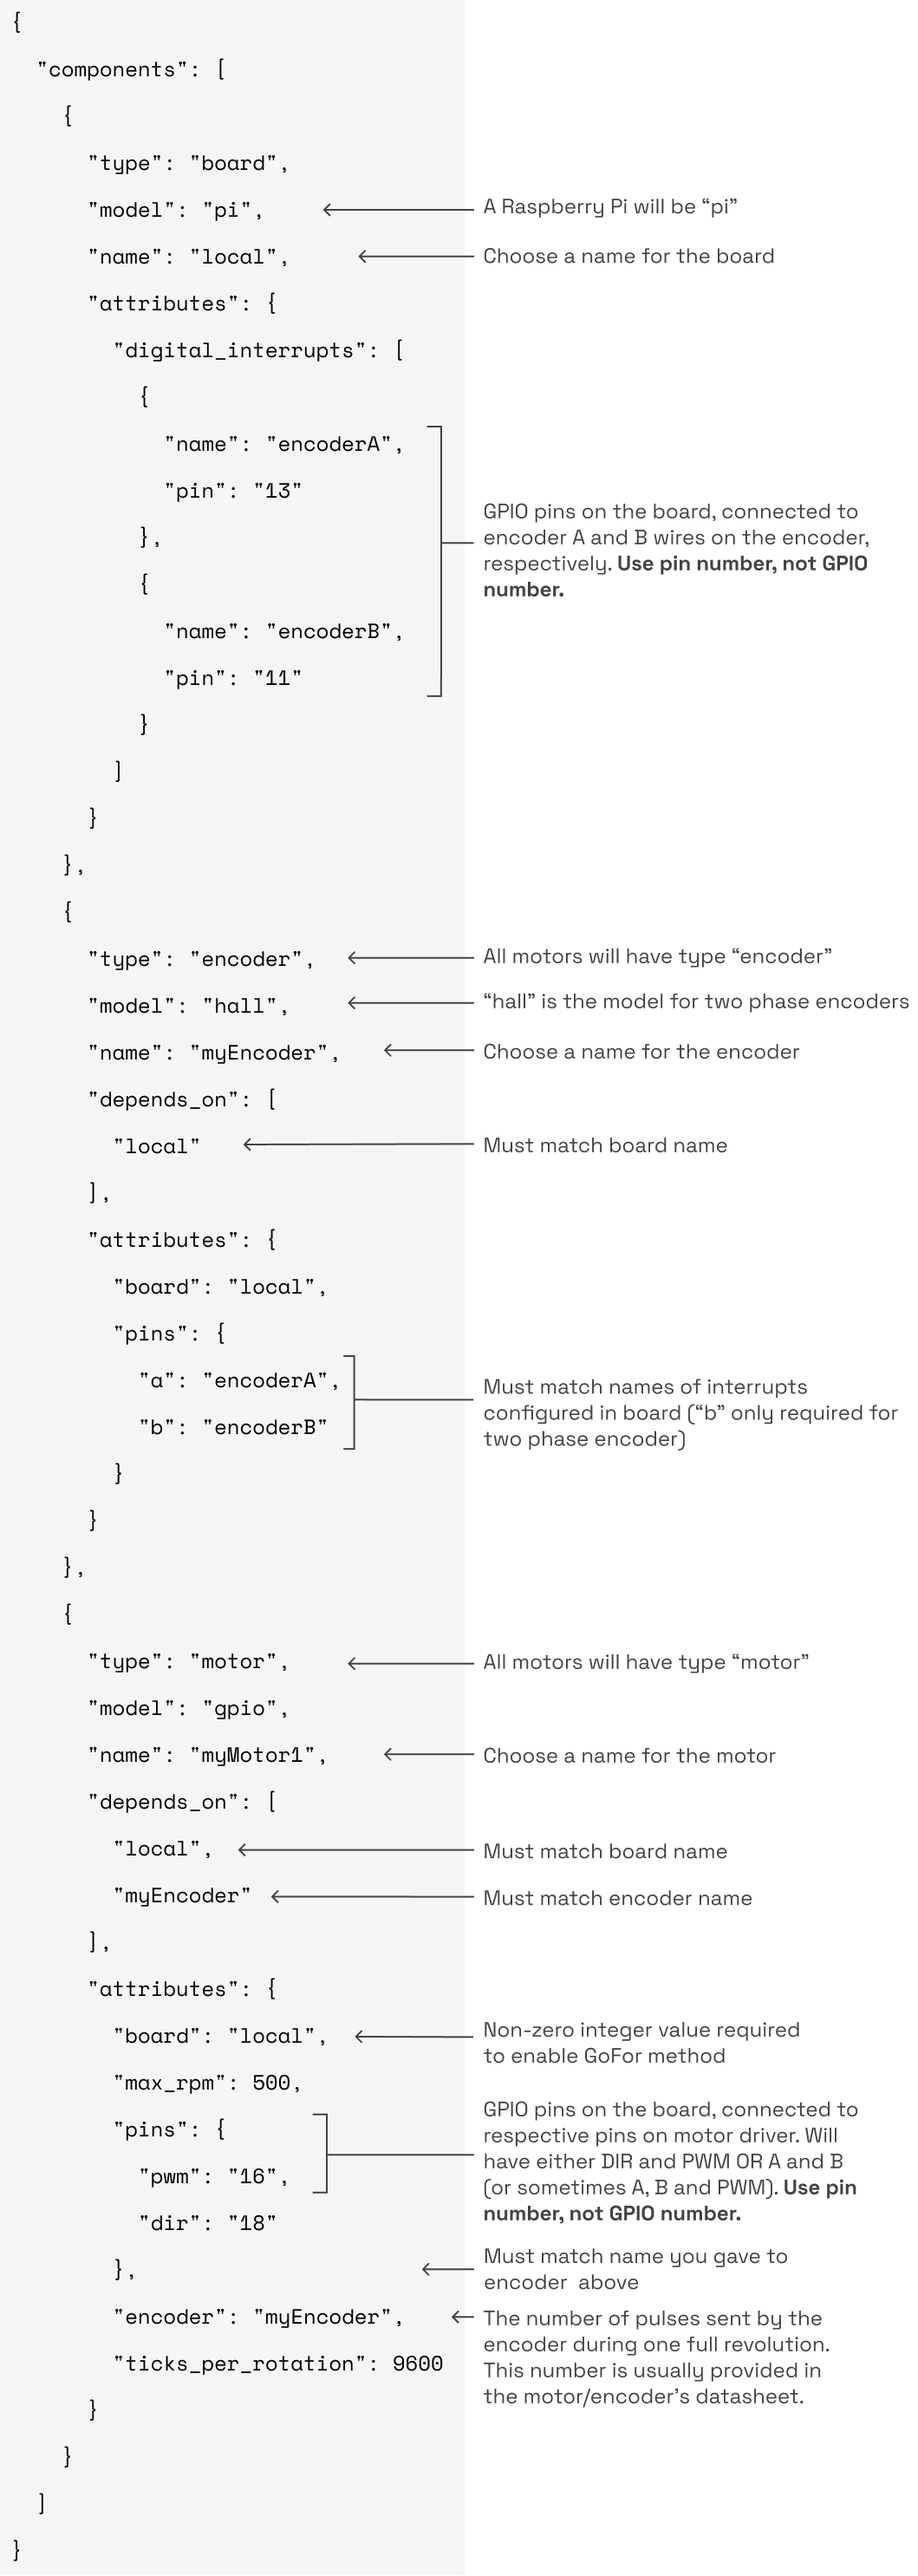
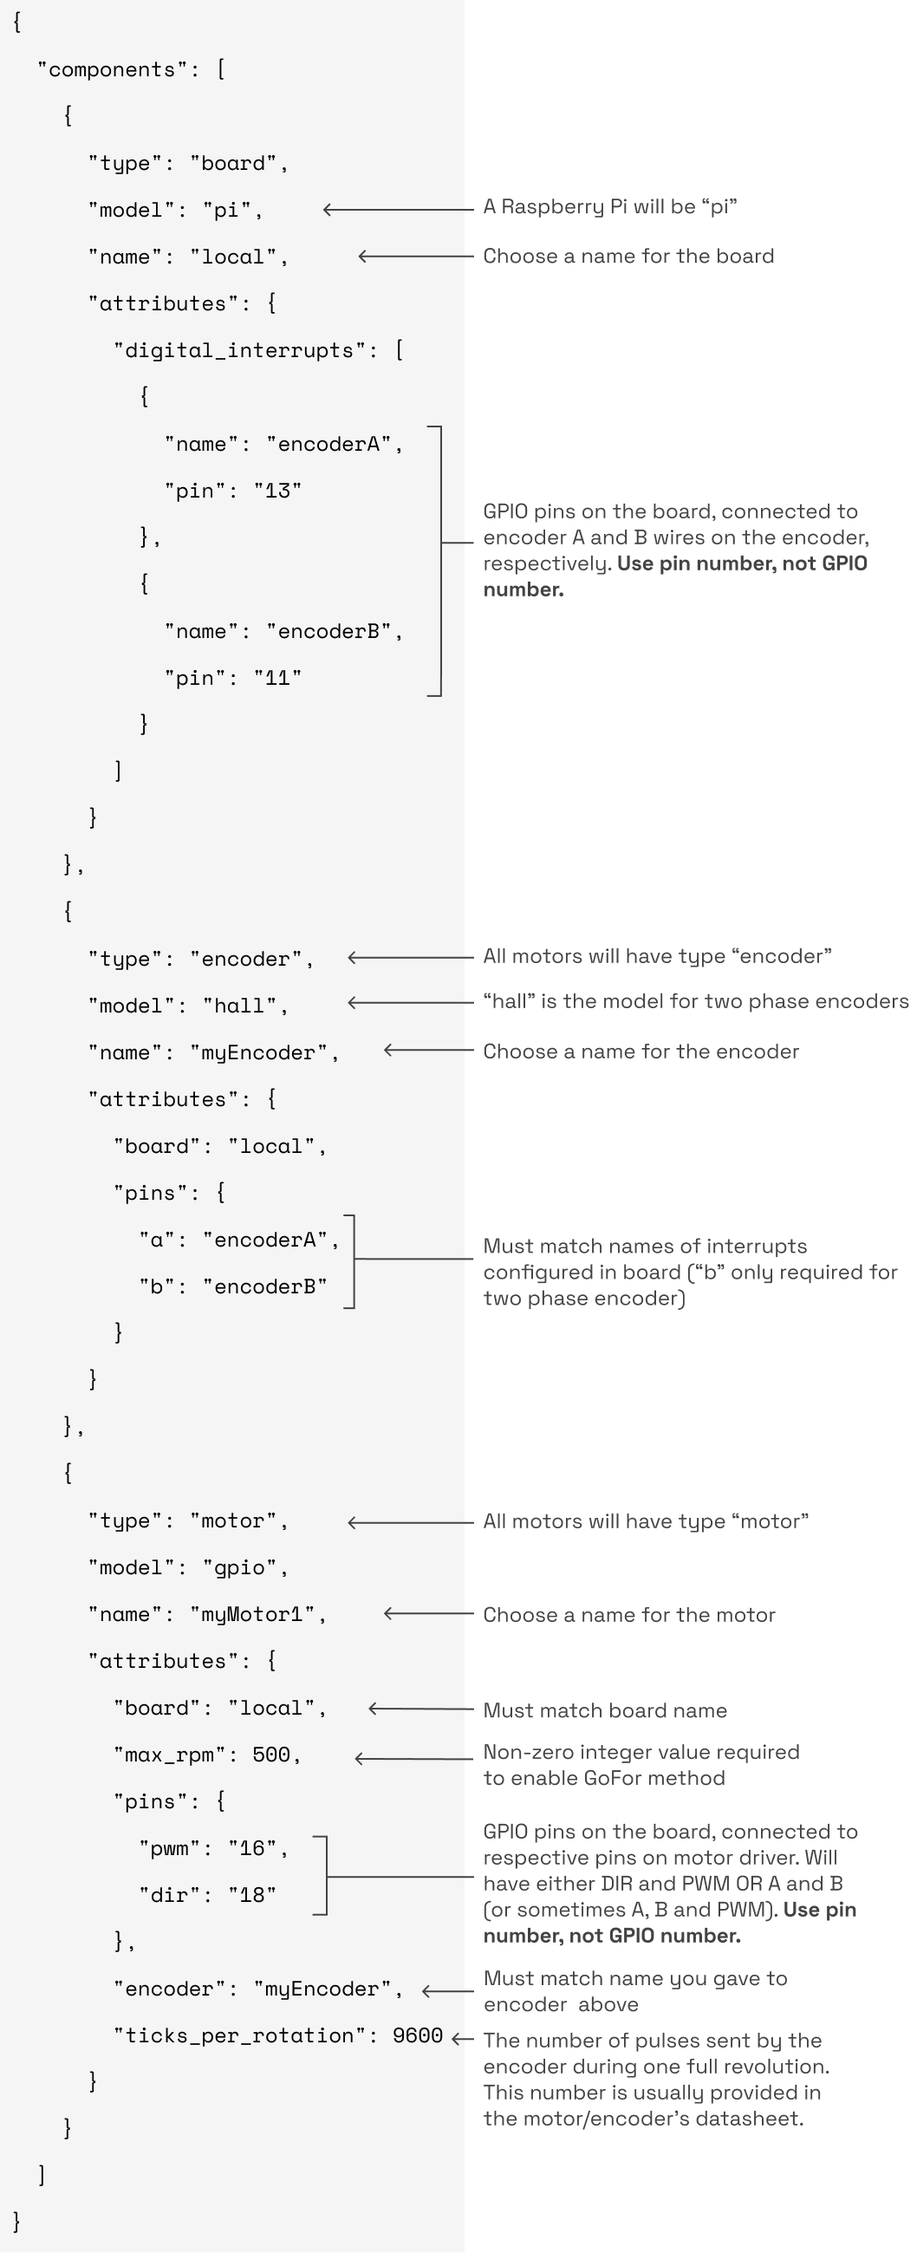
DAD-219 remove depends_on from motor doc

diff --git a/docs/components/motor.md b/docs/components/motor.md
@@ -154,9 +154,9 @@ For example:
 
 Name | Type | Default Value | Description
 -------------- | ---- | ------------- | ---------------
-`board` | string | --        | Name of board on which it depends
+`board` | string | --        | Name of board to which the motor driver is wired.
 `max_rpm` | float | --         | This is an estimate of the maximum RPM the motor will run at with full power under no load. The go_for method calculates how much power to send to the motor as a percentage of `max_rpm`. If unknown, it can be set to zero but this will render the “GoFor” method unusable.
-`pins` | object | --  | A structure that holds pin configuration information
+`pins` | object | --  | A structure that holds pin configuration information.
 
 Nested within `pins` (note that only two or three of these are required depending on your motor driver; see [Pins](#pins) above for more information):
 
@@ -217,7 +217,7 @@ Here's an example of an encoded DC motor wired with <a href="https://www.pololu.
 ### Viam Configuration
 
 Viam supports a brushed or brushless DC motor with a quadrature encoder within model “gpio.”
-Configuration of an encoder requires configuring the encoder [per the encoder topic](../encoder) in addition to the [standard “gpio” model attributes](#required-attributes---non-encoded-dc-motor). Also note that the encoder name must be added in the motor's `depends_on` field.
+Configuration of an encoder requires configuring the encoder [per the encoder topic](../encoder) in addition to the [standard “gpio” model attributes](#required-attributes---non-encoded-dc-motor).
 Here’s an example config file:  
 
 ![motor-encoded-dc-json](../img/motor/motor-encoded-dc-json.png)  
@@ -273,7 +273,7 @@ Here’s an example of a basic stepper driver config:
 
 Name | Type | Description
 -------------- | ---- | ---------------
-`board` | string | Should match name of board on which motor depends.
+`board` | string | Should match name of board to which the motor is wired.
 `pins` | object | A structure containing "step" and "dir" pin numbers; see example JSON above.
 `ticks_per_rotation` | integer | Number of full steps in a rotation. 200 (equivalent to 1.8 degrees per step) is very common.
 
